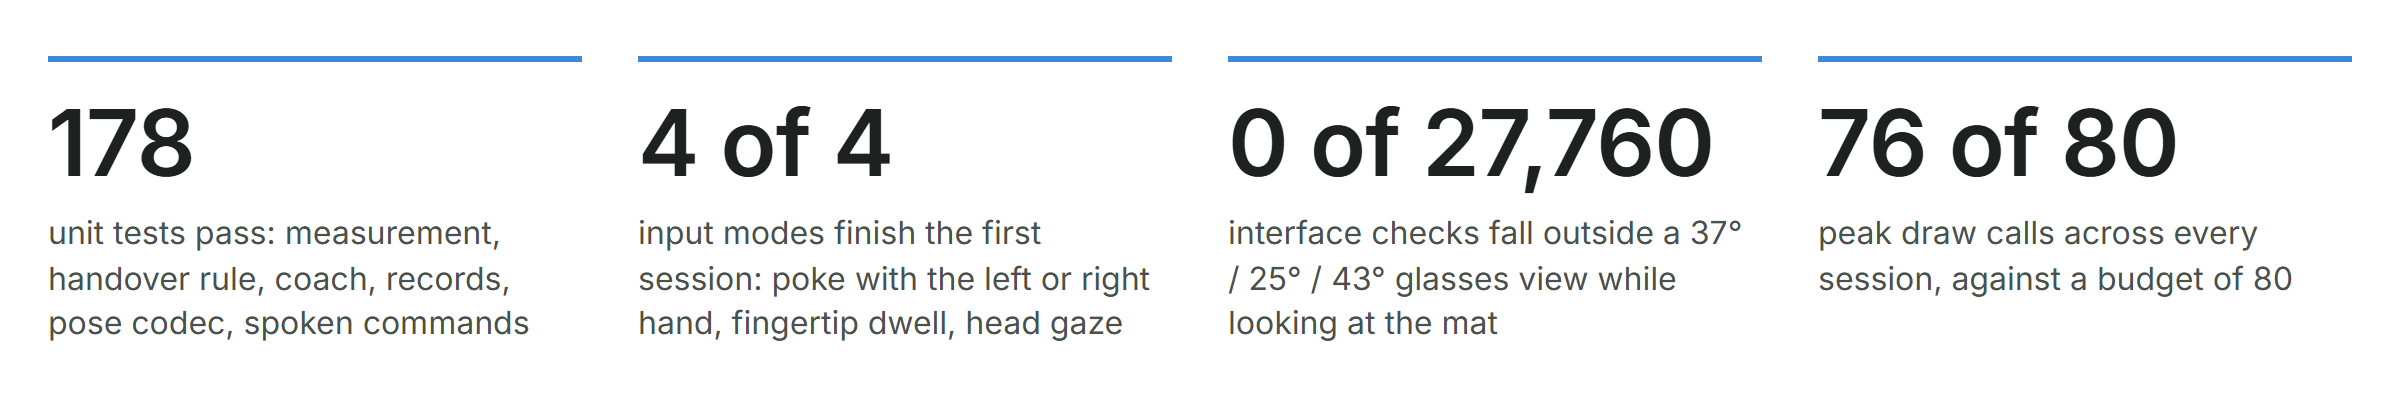
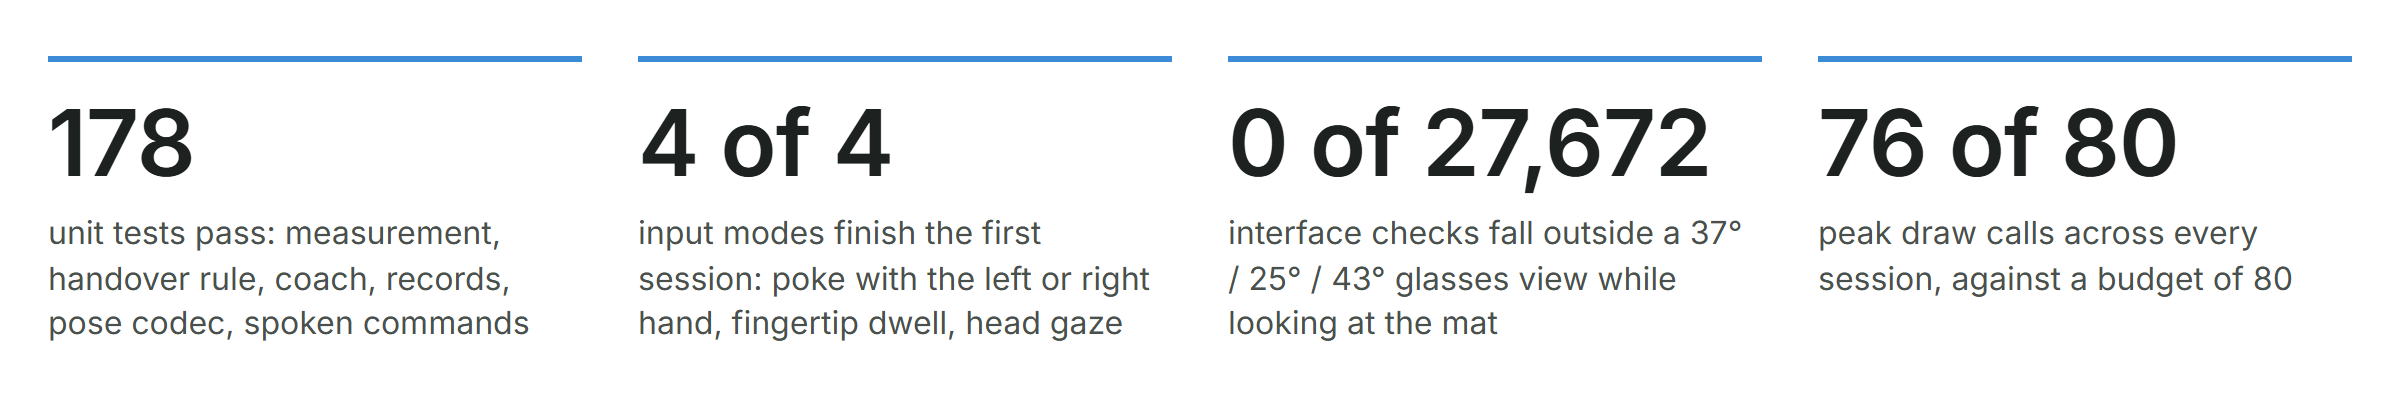
Publish the e2e suite and its results; refresh retained emulator evidence and scorecard

Changed region(s): [[0.625, 0.2687, 0.7188, 0.4478]]

diff --git a/README.md b/README.md
@@ -95,6 +95,8 @@ npm.cmd run build
 npm.cmd run preview -- --host 127.0.0.1
 ~~~
 
+With the dev server running, `node tools/e2e-suite.mjs` drives the tour and first session in four input modes (poke with either hand, dwell, head gaze) in the emulator and checks the glasses view mask and the render budget (`SEQ=1` runs one browser at a time). Results: [verification/e2e-results.json](verification/e2e-results.json); a full passing run also refreshes the journeys and render entries of [verification/emulator.json](verification/emulator.json).
+
 The test run produces the software-check summary used by the explanation page. A build also generates the interactive sample from the app's own model, then stamps the complete offline cache. Validation reproduces the stated synthetic S2–S5 and S11 checks. Existing bundled speech and models need no generation tools or Python at runtime.
 
 Useful preview routes: ?fresh for first onboarding, ?fresh&seed=21 for a complete later session, ?fresh&program=deskbreak for a desk break, ?fresh&seed=3&goto=later for the in-headset later visit, and ?fresh&showcase=handover, progress or measurement for the short desktop chapters. Two tabs of ?seed=2&visit=local&visitcode=4321&goto=visit&visitrole=host and &visitrole=join run a Visit over a local browser channel. All sample routes use separate temporary storage. The plain URL on a headset uses personal records.
